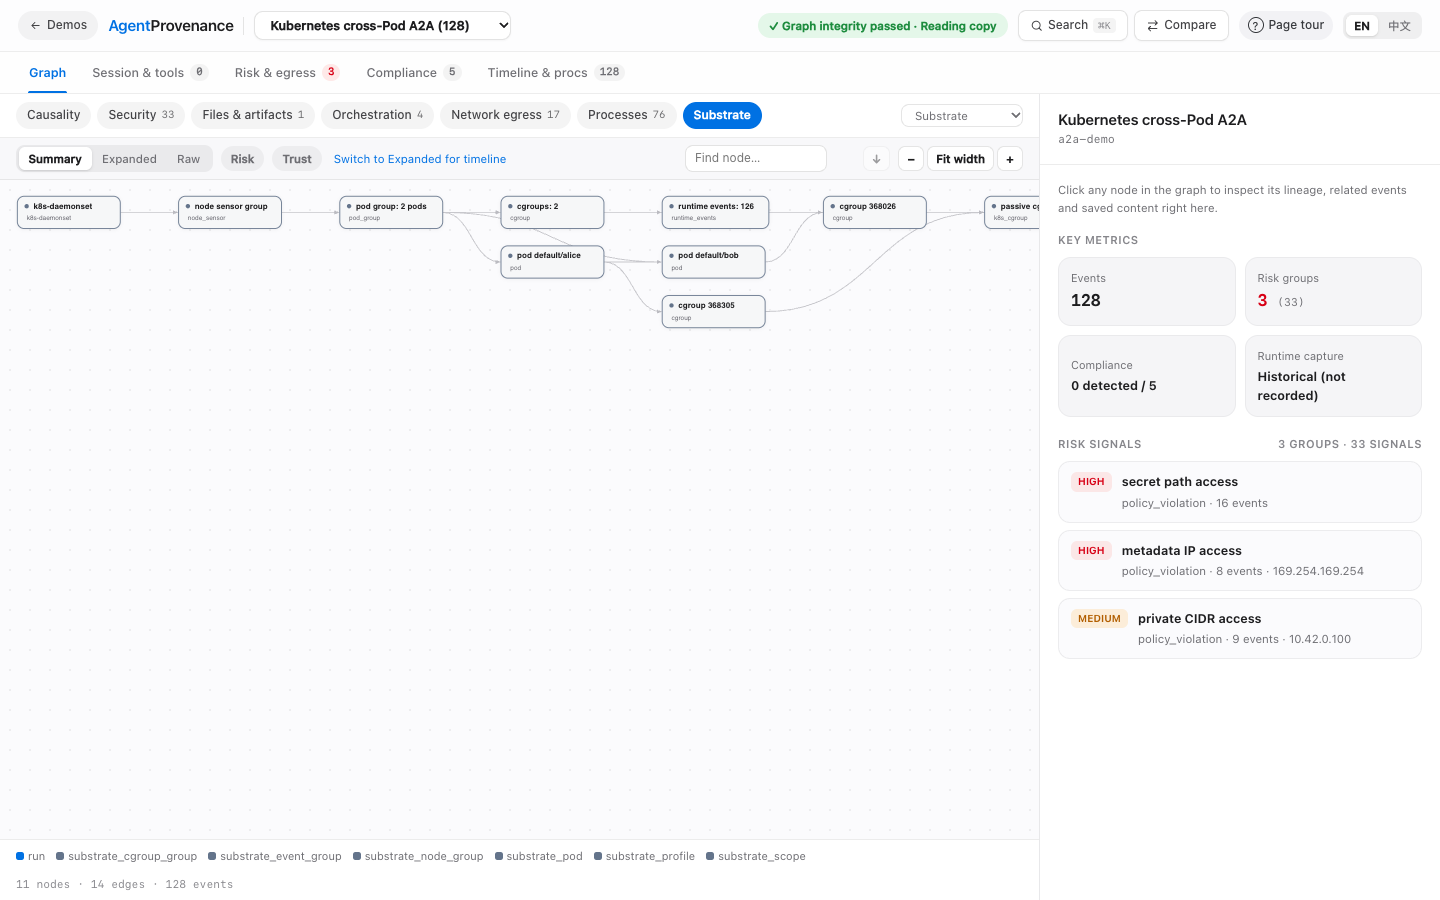
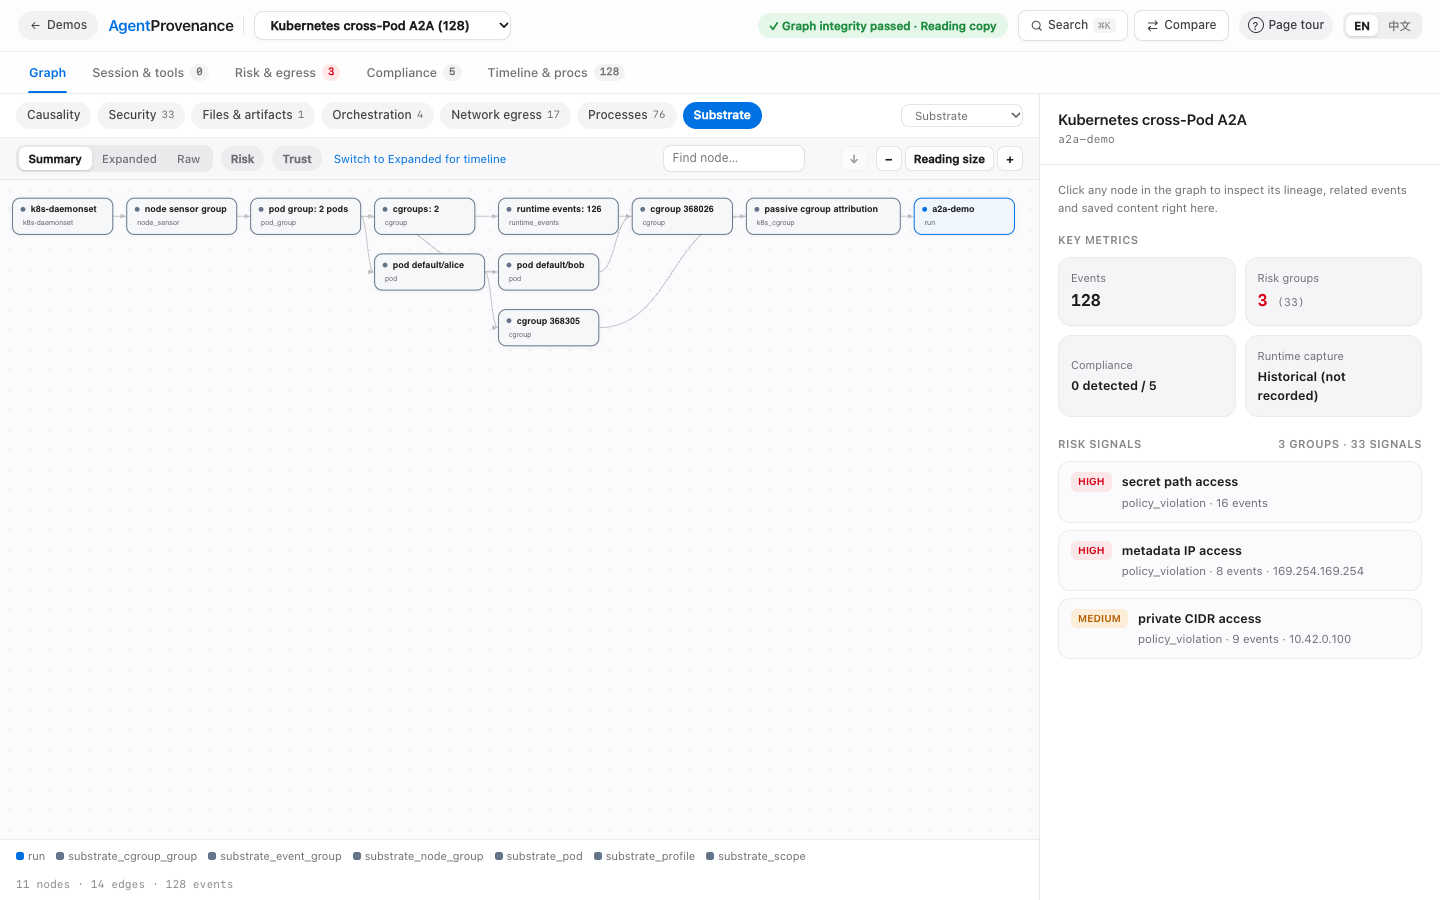
Fit wide evidence graphs on entry and refresh bilingual screenshots

diff --git a/internal/dashboard/workbench.js b/internal/dashboard/workbench.js
@@ -309,8 +309,7 @@
     expandMode: 'lineage',
     overlays: new Set(),
     zoom: 1,
-    fit: true,
-    exactFit: false,
+    zoomMode: 'auto',
     times: [],
     tcur: null,
     playing: null,
@@ -602,7 +601,11 @@
     $('#wb-focus-clear').onclick = () => setLens(S.lens, S.detail, '');
     $('#wb-zout').onclick = () => setZoom(0.8);
     $('#wb-zin').onclick = () => setZoom(1.25);
-    $('#wb-zfit').onclick = () => { S.fit = true; S.exactFit = !S.exactFit; S.graphView?.resize(); renderGraph(); };
+    $('#wb-zfit').onclick = () => {
+      S.zoomMode = fitsWidth() ? 'reading' : 'width';
+      S.graphView?.resize(); updateFitButton();
+    };
+    desktopGraph.addEventListener('change', () => { S.graphView?.resize(); updateFitButton(); });
     $('#wb-play').onclick = togglePlay;
     $('#wb-slider').oninput = () => { stopPlay(); setScrub(+$('#wb-slider').value); };
     $('#wb-scrub-hint').onclick = () => setLens(S.lens, 'expanded', S.focus);
@@ -643,8 +646,7 @@
     S.sel = S.focus || null;
     S.insContentMode = 'body';
     S.insContentNode = '';
-    S.fit = true;
-    S.exactFit = false;
+    S.zoomMode = 'auto';
     stopPlay();
     if (S.mode !== 'graph') setMode('graph'); else syncURL();
     loadGraph();
@@ -707,19 +709,21 @@
         cols[k].forEach((n, i) => { idx[n.id] = i; });
       });
     }
-    const ROWH = 80, NW = 166, NH = 52, PADX = 28, PADY = 26;
+    // Give wide graphs less empty space between columns before scaling their text.
+    const wide = nums.length >= 4;
+    const ROWH = 80, NW = wide ? 144 : 166, NH = 52, PADX = wide ? 18 : 28, PADY = 26;
     const pos = {}; let x = PADX, right = PADX + NW;
     for (const k of nums) {
       let widest = NW;
       cols[k].forEach((n, i) => {
-        const w = Math.max(NW, Math.min(320, 38 + Math.ceil(textW(nodeLabel(n)))));
+        const w = Math.max(NW, Math.min(wide ? 236 : 320, 38 + Math.ceil(textW(nodeLabel(n)))));
         pos[n.id] = { x, y: PADY + i * ROWH, w, h: NH };
         widest = Math.max(widest, w);
       });
-      right = x + widest; x += Math.max(260, widest + 42);
+      right = x + widest; x += wide ? widest + 20 : Math.max(260, widest + 42);
     }
     const maxRows = Math.max(1, ...Object.values(cols).map(c => c.length));
-    return { pos, W: right + PADX, H: PADY * 2 + (maxRows - 1) * ROWH + NH };
+    return { pos, wide, W: right + PADX, H: PADY * 2 + (maxRows - 1) * ROWH + NH };
   }
   function localScope(g, sel, mode) {
     if (!sel) return null;
@@ -733,25 +737,29 @@
     else { walk(sel, out); walk(sel, inc); }
     return { nodes, edges };
   }
+  const desktopGraph = matchMedia('(min-width: 981px)');
+  function fitsWidth() {
+    return S.zoomMode === 'width' || (S.zoomMode === 'auto' && S.layout?.wide && desktopGraph.matches);
+  }
   function graphZoom(W) {
-    if (S.fit) {
-      const el = $('#dag');
-      const cw = (el && el.clientWidth) || W;
-      const raw = Math.min(1, (cw - 12) / W);
-      if (S.exactFit) return raw;
-      return S.lens === 'orchestration' && matchMedia('(min-width: 981px)').matches ? 1.1 : Math.max(0.62, raw);
+    if (S.zoomMode === 'manual') return S.zoom;
+    const cw = $('#dag')?.clientWidth || W;
+    const raw = Math.min(1, Math.max(1, cw - 12) / W);
+    if (fitsWidth()) return raw;
+    if (desktopGraph.matches && (S.zoomMode === 'reading' || S.lens === 'orchestration')) {
+      return S.lens === 'orchestration' ? 1.1 : 1;
     }
-    return S.zoom;
+    return Math.max(0.62, raw);
   }
   function setZoom(m) {
-    if (S.fit && S.layout) S.zoom = graphZoom(S.layout.W);
-    S.fit = false; S.exactFit = false; S.zoom = Math.max(0.25, Math.min(3, S.zoom * m));
+    const previous = S.layout ? graphZoom(S.layout.W) : S.zoom;
+    S.zoomMode = 'manual'; S.zoom = Math.max(0.25, Math.min(3, previous * m));
     S.graphView?.resize(); updateFitButton();
   }
   function updateFitButton() {
     const fit = $('#wb-zfit');
-    fit.textContent = S.exactFit ? L('阅读比例', 'Reading size') : L('全图', 'Fit width');
-    fit.title = S.exactFit ? L('恢复默认阅读字号', 'Restore default reading size') : L('按宽度查看整张图', 'Fit the entire graph width');
+    fit.textContent = fitsWidth() ? L('阅读比例', 'Reading size') : L('全图', 'Fit width');
+    fit.title = fitsWidth() ? L('恢复默认阅读字号', 'Restore default reading size') : L('按宽度查看整张图', 'Fit the entire graph width');
   }
   function stopPlay() { if (S.playing) { clearInterval(S.playing); S.playing = null; } $('#wb-play').textContent = '▶'; }
   function togglePlay() {
@@ -820,13 +828,13 @@
 
   function renderGraph() {
     if (!S.graph) return;
-    updateFitButton();
     const g = S.graph;
     const key = S.gsig;
     if (S.layoutKey !== key || !S.layout) {
       S.layout = computeLayout(g.nodes, g.edges);
       S.layoutKey = key;
     }
+    updateFitButton();
     S.graphView ??= window.AgentGraphView({
       host: $('#dag'), find: $('#wb-find'), next: $('#wb-next'), count: $('#wb-matches'),
       activate: selectNode, scale: graphZoom, zoomAt: setZoom, translate: tr
@@ -2418,7 +2426,7 @@
 
   async function loadRun(runId, keepRoute = false) {
     S.run = runId;
-    if (!keepRoute) { S.scope = null; S.sel = null; S.focus = ''; S.insTab = 'summary'; S.fit = true; S.exactFit = false; }
+    if (!keepRoute) { S.scope = null; S.sel = null; S.focus = ''; S.insTab = 'summary'; S.zoomMode = 'auto'; }
     S.overview = null; showVerifyBadge(null);
     S.wsItems = []; S.wsSelected = 0; S.nativeItems = []; S.nativeSelected = 0; S.handoffs = [];
     S.entries = []; S.entriesCursor = ''; S.sessionSourceFilter = '';
